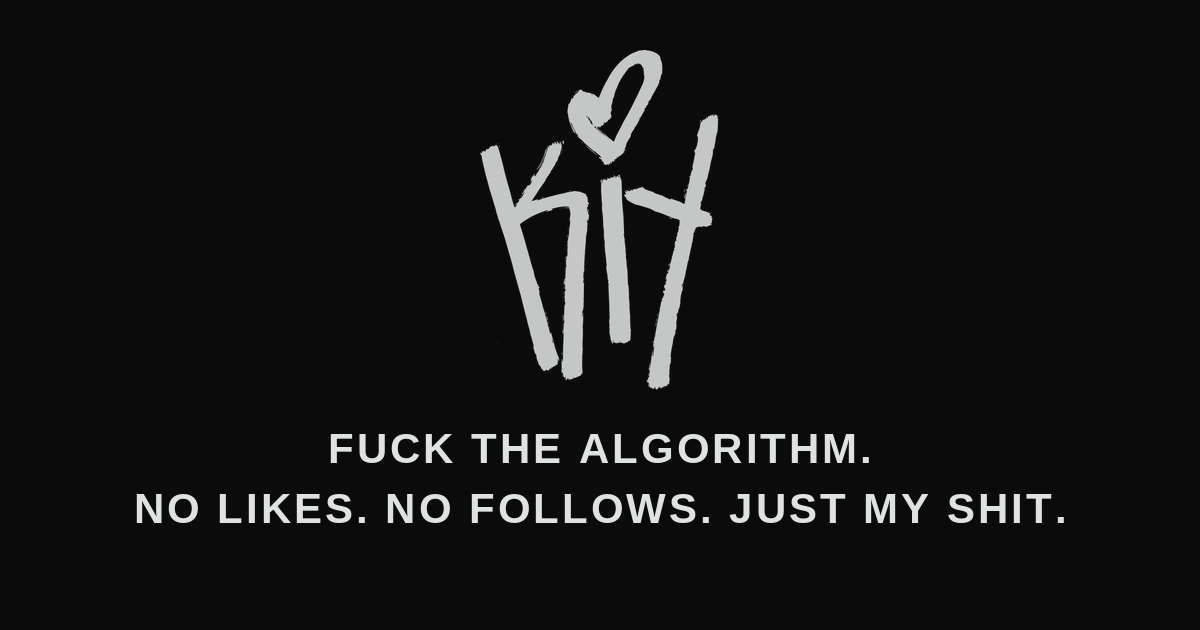
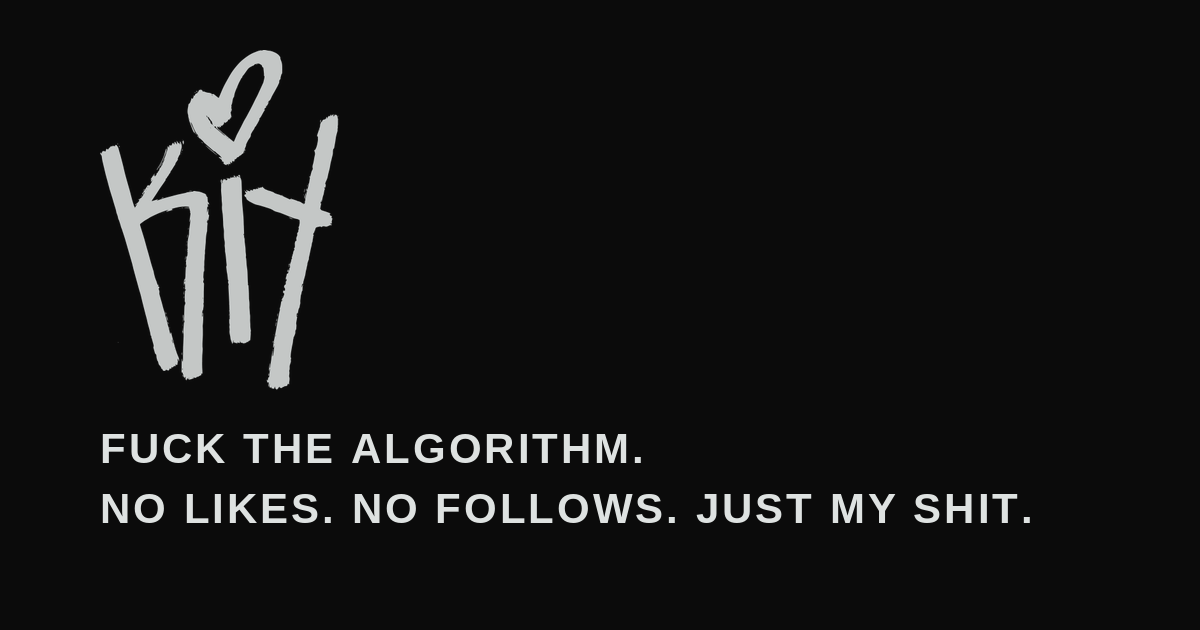
Left-align all text, including the preview card
Claude-Session: https://claude.ai/code/session_01H6iWRwyMLahCfEiZXNi4iU

diff --git a/test.js b/test.js
@@ -23,7 +23,7 @@ let r = await req("/");
 let t = await r.text();
 check("empty feed renders", r.status === 200 && count(t, /<article/g) === 0);
 check("header has logo for light and dark", t.includes('src="/logo-light.png"') && t.includes('srcset="/logo-dark.png"'));
-check("front page has site preview tags", t.includes('property="og:title" content="Kitagram"') && t.includes('property="og:description" content="FUCK THE ALGORITHM.') && t.includes('property="og:image" content="https://www.kitagram.app/og.png?v=2"') && t.includes('og:url" content="https://www.kitagram.app/"') && t.includes('name="twitter:card" content="summary_large_image"'));
+check("front page has site preview tags", t.includes('property="og:title" content="Kitagram"') && t.includes('property="og:description" content="FUCK THE ALGORITHM.') && t.includes('property="og:image" content="https://www.kitagram.app/og.png?v=3"') && t.includes('og:url" content="https://www.kitagram.app/"') && t.includes('name="twitter:card" content="summary_large_image"'));
 check("header shows name and subtitle", t.includes('class="wordmark">Kitagram<') && t.includes('lengthAdjust="spacingAndGlyphs">FUCK THE ALGORITHM. NO LIKES. NO FOLLOWS. JUST MY SHIT.<'));
 
 // --- auth ---
@@ -83,7 +83,7 @@ check("permalink has preview tags", t.includes('property="og:title"') && t.inclu
   const mk = (type, data) => og({ id: "9", type, date: "2026-10-20T19:00:00Z", data });
   const val = (h, k) => h.match(new RegExp(`(?:property|name)="${k}" content="([^"]*)"`))?.[1];
   const text = mk("text", { body: "A long thought about why the feed is dead. ".repeat(10) });
-  check("text post preview: image is the site card, title cut, description differs", val(text, "og:image") === "https://www.kitagram.app/og.png?v=2" && val(text, "og:title").length <= 70 && val(text, "og:title").endsWith("…") && val(text, "og:description") !== val(text, "og:title"));
+  check("text post preview: image is the site card, title cut, description differs", val(text, "og:image") === "https://www.kitagram.app/og.png?v=3" && val(text, "og:title").length <= 70 && val(text, "og:title").endsWith("…") && val(text, "og:description") !== val(text, "og:title"));
   const photo = mk("photo", { src: "https://x.test/a.jpg", caption: "Dropping in on friends." });
   check("photo preview: its own picture, caption title, description not a repeat", val(photo, "og:image") === "https://x.test/a.jpg" && val(photo, "og:title") === "Dropping in on friends." && val(photo, "og:description") === "Kitagram · Oct 20, 2026" && val(photo, "twitter:card") === "summary_large_image");
   check("quote + link + audio previews", val(mk("quote", { text: "Hi", source: "Me" }), "og:title") === "“Hi”" && val(mk("link", { title: "T", url: "https://a.com/x" }), "og:description") === "a.com" && val(mk("audio", { title: "S", artist: "A", src: "/a.mp3" }), "og:description") === "A · audio");

diff --git a/site.config.js b/site.config.js
@@ -11,7 +11,7 @@ export default {
   textMe: { name: "Kit", number: process.env.SMS_NUMBER || "" },
 
   // Picture used in link previews for posts that have no picture of their own (text, quotes, links). 1200x630.
-  ogImage: "/og.png?v=2",
+  ogImage: "/og.png?v=3",
 
   // AI training/scraping. false = refuse known AI crawlers (robots.txt, headers, and a 403 for ones that identify themselves). true = allow.
   aiScraping: false,

diff --git a/public/styles.css b/public/styles.css
@@ -99,7 +99,7 @@ main,
   padding: 24px 16px 40px;
   color: var(--muted);
   font-size: 14px;
-  text-align: center;
+  text-align: left;
 }
 
 /* Feed: flat posts, hairline dividers */
@@ -151,7 +151,7 @@ main,
 }
 
 .end {
-  text-align: center;
+  text-align: left;
   color: var(--muted);
   font-size: 14px;
   margin: 0;
